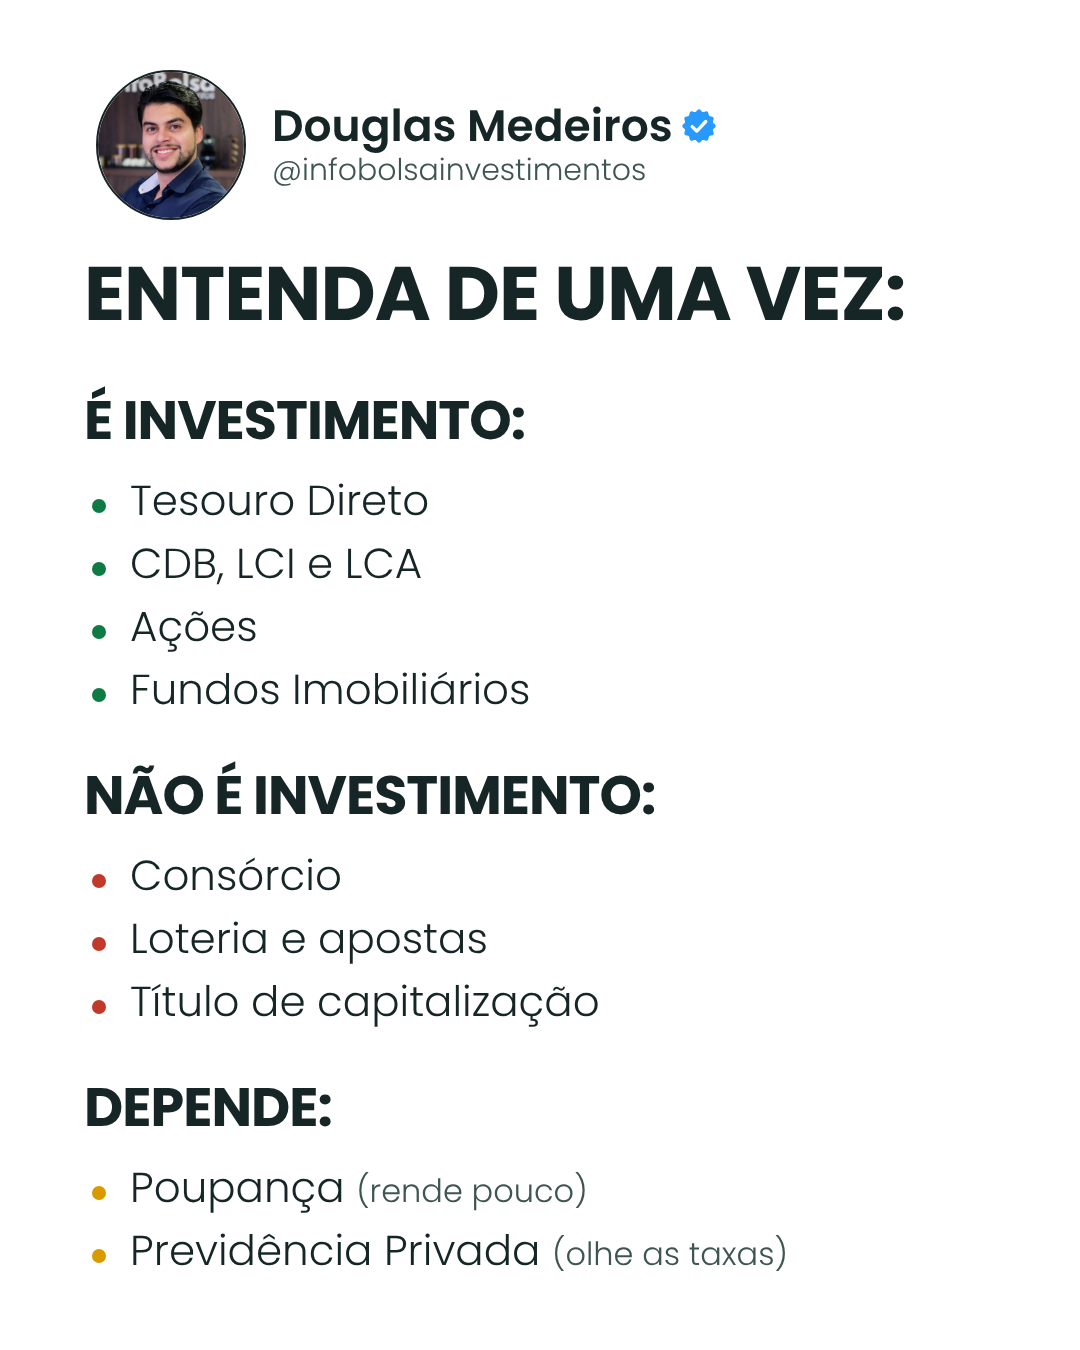
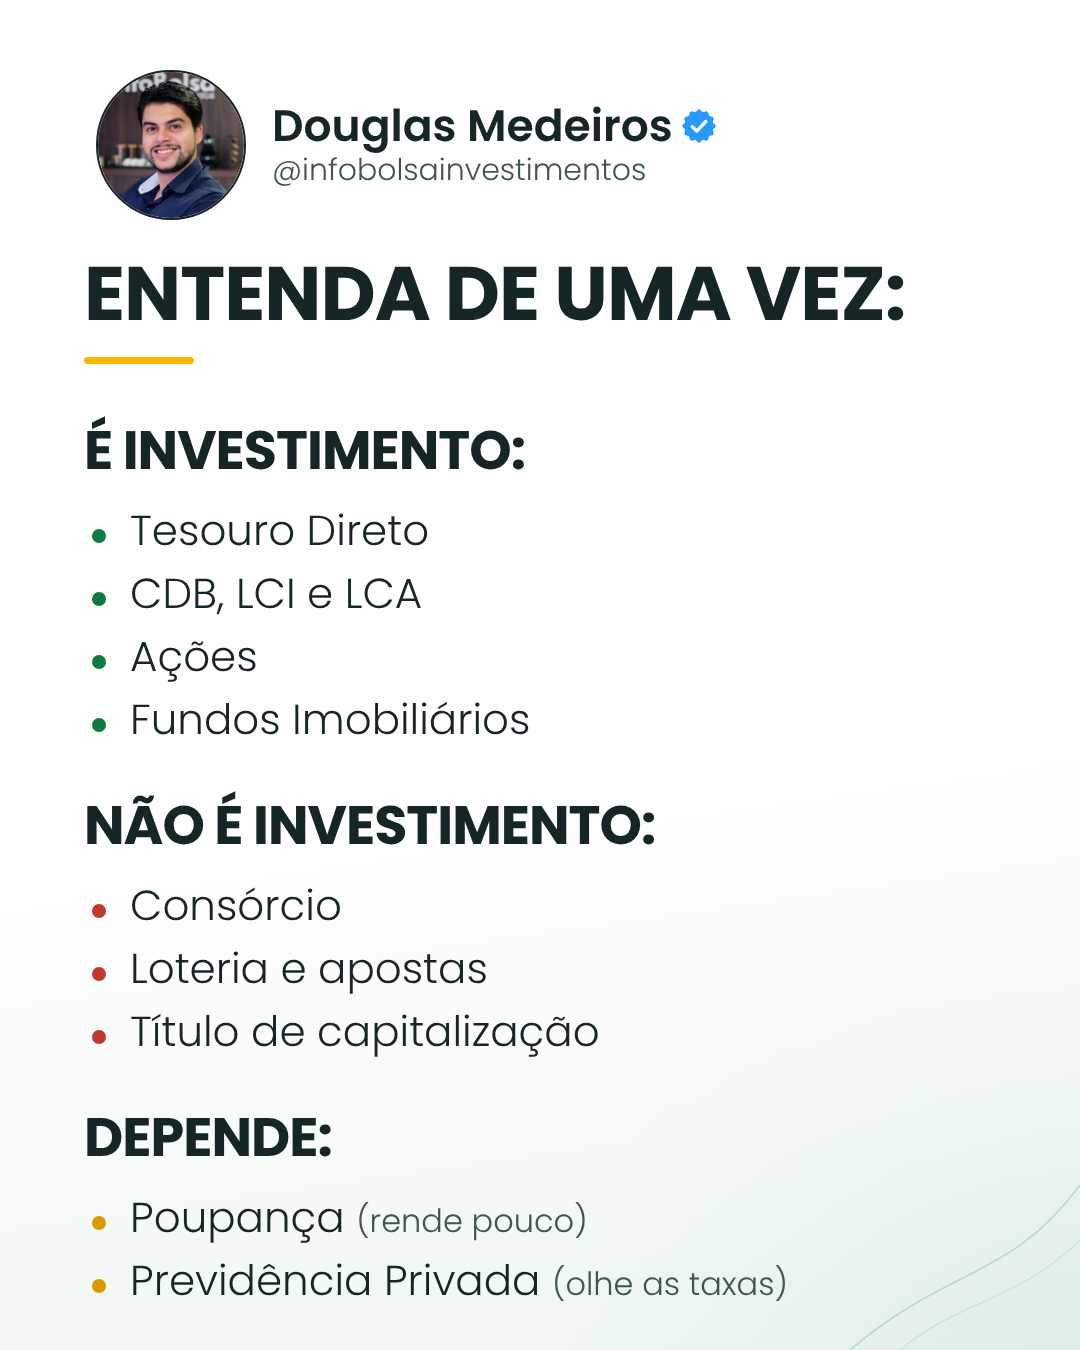
3 posts: fundo verde InfoBolsa e FIIs com melhor proporção
Claude-Session: https://claude.ai/code/session_01V4Ut9U2W4uPbxLAyJQKmJH

Changed region(s): [[0.0611, 0.2489, 0.6111, 0.7778], [0.0611, 0.8089, 0.7333, 0.9644], [0.7639, 0.8711, 1.0, 1.0]]

diff --git a/kit/gen_ref_tw.py b/kit/gen_ref_tw.py
@@ -1,16 +1,18 @@
 import json, os, sys
 os.chdir("/home/claude/infobolsa-posts/kit")
 sys.path.insert(0, ".")
-from gen_inst import CSS, FS, SELO, SCRIPT
+from gen_inst import CSS, FS, SELO, SCRIPT, curva
 
 BASE = """
-body{background:#fff!important}
+body{background:linear-gradient(172deg,#ffffff 0%,#ffffff 58%,#eef6f1 100%)!important}
+.luz{position:absolute;inset:0;background:radial-gradient(ellipse 760px 620px at 100% 100%,rgba(15,122,67,.07),transparent 70%)}
 .cab{top:70px}
 .t{position:absolute;left:84px;right:84px;top:250px;font-weight:700;font-size:var(--ts,62px);line-height:1.15;letter-spacing:-1px;color:#162526}
 .t .n{font-weight:400}
-.l2{position:absolute;left:84px;right:84px;display:grid;grid-template-columns:1fr 1fr;row-gap:30px;column-gap:40px;font-size:44px;color:#162526}
+.t:after{content:'';display:block;width:110px;height:7px;border-radius:4px;background:#FFB400;margin-top:20px}
+.l2{position:absolute;left:84px;right:84px;display:grid;grid-template-columns:1fr 1fr;row-gap:50px;column-gap:40px;font-size:48px;color:#162526}
 .l2 b{font-weight:600}
-.tot{position:absolute;left:84px;font-weight:700;font-size:78px;color:#162526;letter-spacing:-1px}
+.tot{position:absolute;left:84px;font-weight:700;font-size:92px;color:#162526;letter-spacing:-1px}
 .tot span{color:#0f7a43}
 .fn{position:absolute;left:84px;right:84px;font-size:24px;line-height:1.45;color:#7b8f8a}
 .br{position:absolute;left:70px;right:60px;display:flex;flex-direction:column;gap:22px}
@@ -32,7 +34,7 @@ def pag(corpo, ts=62, cab=True):
          f'<div><div class="nm">Douglas Medeiros {SELO}</div><div class="ar">@infobolsainvestimentos</div></div></div>') if cab else ""
     h = h.replace('class="ft2"', 'class="ft"')
     return (f'<!doctype html><html lang="pt-BR"><head><meta charset="utf-8"><style>{CSS.replace("FS/", FS)}{BASE}</style></head>'
-            f'<body style="--fg:#162526;--sub:#3f5552;--foto:#162526;--ts:{ts}px">{h}{corpo}{SCRIPT}</body></html>')
+            f'<body style="--fg:#162526;--sub:#3f5552;--foto:#162526;--ts:{ts}px"><div class="luz"></div>{curva("branco")}{h}{corpo}{SCRIPT}</body></html>')
 
 
 P = "../pronto/2026-11-17-"
@@ -40,9 +42,9 @@ P = "../pronto/2026-11-17-"
 c = json.load(open(P + "semdinheiro/config.json"))
 it = "".join(f"<div><b>{t}:</b> R$ {p}</div>" for t, p in c["itens"])
 html = pag(f'<div class="t">"Eu não tenho dinheiro para<br>investir"</div>'
-           f'<div class="l2" style="top:440px">{it}</div>'
-           f'<div class="tot" style="top:900px">Total: <span class="num">R$ {c["total"]}</span></div>'
-           f'<div class="fn" style="top:1060px">Fonte: StatusInvest, cotações de 17/11/2026.<br>Este conteúdo não é uma recomendação de compra.</div>', 64)
+           f'<div class="l2" style="top:500px">{it}</div>'
+           f'<div class="tot" style="top:1075px">Total: <span class="num">R$ {c["total"]}</span></div>'
+           f'<div class="fn" style="top:1225px">Fonte: StatusInvest, cotações de 17/11/2026.<br>Este conteúdo não é uma recomendação de compra.</div>', 64)
 open("r1.html", "w").write(html)
 # 2. Bancos
 c = json.load(open(P + "bancos/config.json"))
@@ -59,11 +61,11 @@ for x in c["itens"]:
     else:
         rows += f'<div class="row"><img src="{x["logo"]}" style="background:{x.get("fundo", "transparent")}"><div class="bar" style="width:{w}px;background:{x["cor"]}"></div><div class="val num">{x["nome"]} - {txt}</div></div>'
 html = pag(f'<div class="t" style="font-size:52px">🚨 Quanto cada banco lucrou <span class="n">no 3º trimestre (valor em R$):</span> 👇💰🏦</div>'
-           f'<div class="br" style="top:420px">{rows}</div>', 52)
+           f'<div class="br" style="top:455px">{rows}</div>', 52)
 open("r2.html", "w").write(html.replace(" - ", ": "))
 # 3. Investimento
 sec = lambda t, c, its, top=0: f'<div class="sec" style="--c:{c}"><h2>{t}</h2><ul>' + "".join(f"<li>{i}</li>" for i in its) + "</ul></div>"
-html = pag('<div class="t" style="font-size:76px">ENTENDA DE UMA VEZ:</div><div class="secs" style="top:380px">'
+html = pag('<div class="t" style="font-size:76px">ENTENDA DE UMA VEZ:</div><div class="secs" style="top:410px">'
            + sec("É INVESTIMENTO:", "#0f7a43", ["Tesouro Direto", "CDB, LCI e LCA", "Ações", "Fundos Imobiliários"], 390)
            + sec("NÃO É INVESTIMENTO:", "#c0392b", ["Consórcio", "Loteria e apostas", "Título de capitalização"], 760)
            + sec("DEPENDE:", "#d99a00", ["Poupança <small>(rende pouco)</small>", "Previdência Privada <small>(olhe as taxas)</small>"], 1065) + "</div>", 76)
